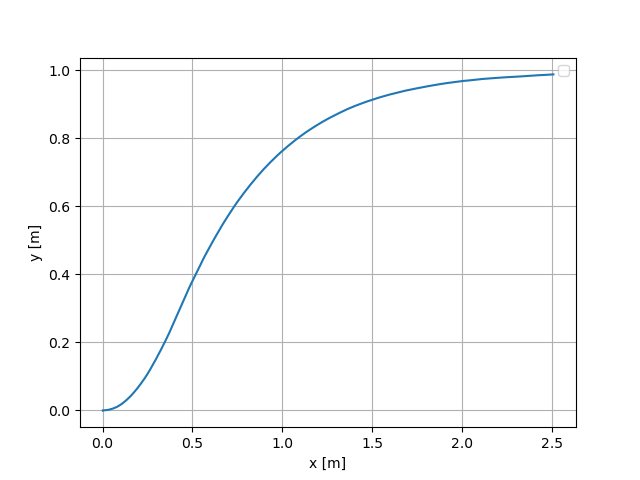
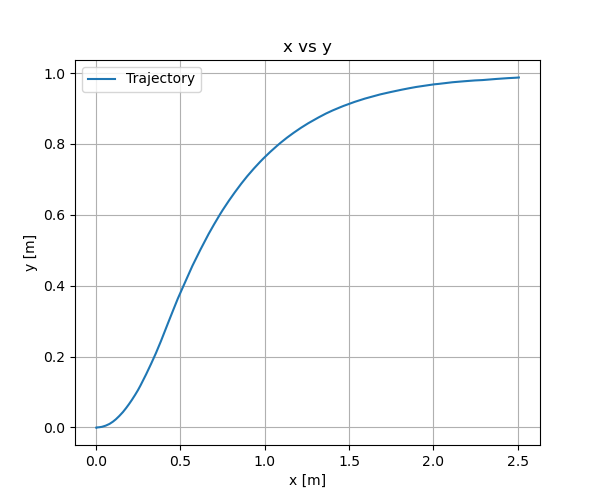
final final

diff --git a/calc.py b/calc.py
@@ -1,0 +1,62 @@
+import pandas as pd
+import numpy as np
+
+def analyze_step_response(filename, tol=0.02):
+    # Load CSV file
+    df = pd.read_csv(filename)
+    e = df['e'].values
+    t = df[' stamp'].values
+    t = (t - t[0]) / 1e9  # convert nanoseconds to seconds
+
+    # Basic parameters
+    e0 = e[0]
+    ess = 0  # steady-state = median of last 10% samples
+
+    # Overshoot
+    if np.min(e)>0:
+        e_peak = 0
+    else:
+        e_peak = np.min(e)
+    Mp = abs(e_peak - ess) / abs(e0 - ess) * 100
+
+    # Rise time (10%–90%)
+    e_10 = e0 * 0.1
+    e_90 = e0 * 0.9
+    idx_10 = np.where(np.abs(e) <= abs(e_10))[0]
+    idx_90 = np.where(np.abs(e) <= abs(e_90))[0]
+
+    if len(idx_10) > 0 and len(idx_90) > 0:
+        t_rise = t[idx_10[0]] - t[idx_90[0]] if idx_10[0] > idx_90[0] else np.nan
+    else:
+        t_rise = np.nan
+
+    # Settling time (±tol of steady state)
+    band = tol * abs(e0)
+    idx_settle = np.where(np.abs(e - ess) <= band)[0]
+    if len(idx_settle) > 0:
+        # ensure it stays within the band for the rest of the time
+        for i in idx_settle:
+            if np.all(np.abs(e[i:] - ess) <= band):
+                t_settle = t[i]
+                break
+        else:
+            t_settle = np.nan
+    else:
+        t_settle = np.nan
+
+    # Results
+    print(f"File: {filename}")
+    print(f"Initial error e0 = {e0:.4f}")
+    print(f"Steady-state value ess = {ess:.4f}")
+    print(f"Rise time (10–90%) = {t_rise:.3f} s")
+    print(f"Settling time (±{tol*100:.0f}%) = {t_settle:.3f} s")
+    print(f"Percent overshoot = {Mp:.2f}%")
+
+if __name__ == "__main__":
+    import argparse
+    parser = argparse.ArgumentParser(description="Compute rise time, settling time, and overshoot from error log.")
+    parser.add_argument("--file", required=True, help="Path to CSV file with columns e, e_dot, e_int, stamp")
+    parser.add_argument("--tol", type=float, default=0.05, help="Tolerance for settling time (default = 2%)")
+    args = parser.parse_args()
+
+    analyze_step_response(args.file, tol=args.tol)
